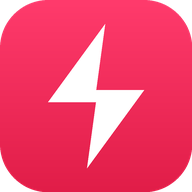
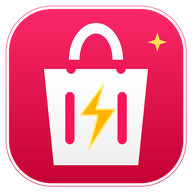
feat(branding): design unique custom e-commerce shopping bag emblem with M monogram and speed lightning bolt

diff --git a/style.css b/style.css
@@ -89,8 +89,26 @@ button { cursor: pointer; font-family: inherit; border: none; background: none; 
   gap: 20px;
 }
 
-.logo { display: flex; align-items: center; gap: 8px; }
-.logo-icon { background: var(--primary); color: white; width: 32px; height: 32px; border-radius: 8px; display: flex; align-items: center; justify-content: center; }
+.logo { display: flex; align-items: center; gap: 9px; }
+.logo-icon { 
+  width: 34px; 
+  height: 34px; 
+  border-radius: 9px; 
+  display: flex; 
+  align-items: center; 
+  justify-content: center; 
+  overflow: hidden;
+  box-shadow: 0 4px 10px rgba(255, 19, 88, 0.28);
+  transition: transform 0.2s cubic-bezier(0.16, 1, 0.3, 1);
+}
+.logo:hover .logo-icon {
+  transform: scale(1.05);
+}
+.logo-icon img, .logo-icon .logo-svg-img { 
+  width: 100%; 
+  height: 100%; 
+  object-fit: contain; 
+}
 .logo-icon i { width: 18px; height: 18px; }
 .logo-text { font-family: 'Plus Jakarta Sans', sans-serif; font-weight: 800; font-size: 1.25rem; letter-spacing: -0.5px; color: var(--text-dark); }
 

diff --git a/index.html b/index.html
@@ -24,7 +24,9 @@
         <div class="container header-inner">
             <div class="header-left">
                 <a href="#" class="logo" id="logoBtn">
-                    <div class="logo-icon"><i data-lucide="zap"></i></div>
+                    <div class="logo-icon">
+                        <img src="/favicon.svg" alt="MegaMart" class="logo-svg-img" width="34" height="34">
+                    </div>
                     <span class="logo-text">MegaMart</span>
                 </a>
                 
